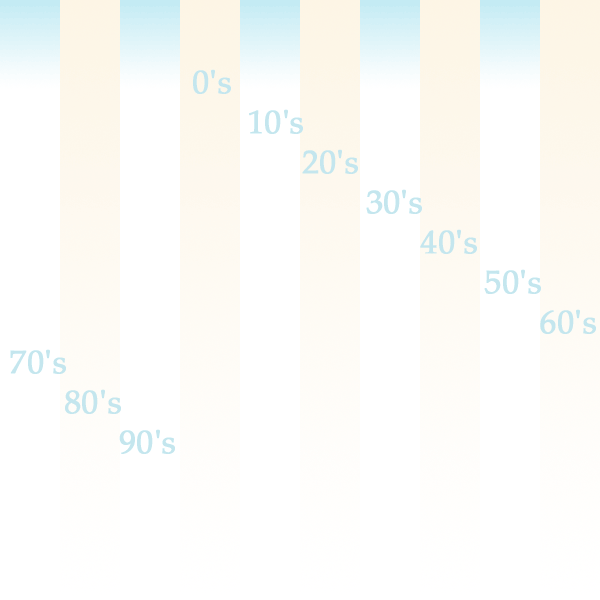
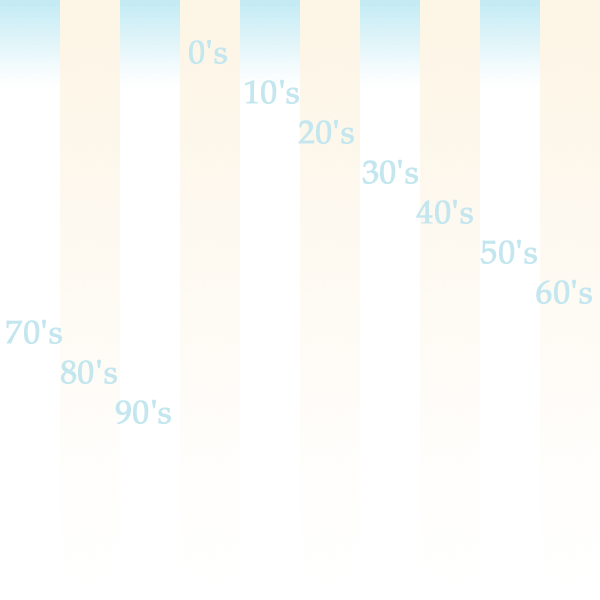
Now Centers on timeline instead of 1970 on startup. Fixed Labels. They were close, but no cigar. Need to be savier about leap years, etc. WheelScroll listeners on both islands & timeline objs.
git-svn-id: file:///a/svnrepos/hippo/code/trunk/HippoTest@365 b8d5060c-ad15-0410-9d10-96fc93d4f2a4

Changed region(s): [[0.3, 0.06, 1.0, 0.57], [0.0, 0.51, 0.3, 0.78]]

diff --git a/src/main/java/com/aavu/client/gui/timeline/zoomer/ProteanLabel.java b/src/main/java/com/aavu/client/gui/timeline/zoomer/ProteanLabel.java
@@ -8,8 +8,6 @@ import com.google.gwt.i18n.client.DateTimeFormat;
 
 public class ProteanLabel extends LabelWrapper {
 	
-	//PENG MED unfortunate probably screw labels up a bit at the hour scale
-	private static final long SMIDGE_MIN = 600; // bump DEC 31 11:59 to Jan 1 etc
 	private int idx;
 
 	public ProteanLabel(int idx, int top){
@@ -25,25 +23,65 @@ public class ProteanLabel extends LabelWrapper {
 	/**
 	 * tell this label that there is a new center. We should update ouselves.
 	 * Our idx tells us how many 'units' away from the center we should be. 
-	 * 'units' will be equal to 1/higherScale (1 level more detailed than the zoom scale)
+	 * 
+	 * NOTE, first attempt did 1/higherScale * idx, which seems like it should work 
+	 * until you remember leap years cumulative effects of months with different dates etc.
+	 * Doing it that way it's too easy to end up with Dec 29 when you wanted Jan 1
 	 * 
 	 * @param d2
 	 * @param currentScale
 	 * @param index
 	 * @param format
 	 */
-	public void setCenter(final Date d2, final double higherScale,final int index,final DateTimeFormat format) {
-		
-		long mod = d2.getTime() % TimeLineObj.scale((long) (1/higherScale));
-		long modded = d2.getTime() - mod;
-		if(index > 1){			
-			System.out.println("smidge "+new Date(TimeLineObj.scale(SMIDGE_MIN))+" mod "+mod+" modD "+new Date(mod));
-			modded += TimeLineObj.scale(SMIDGE_MIN);
-		}		
-		
-		Date newD = new Date(modded + TimeLineObj.scale((long) (idx/higherScale)));
+	public void setCenter(final Date d2, final int index,final DateTimeFormat format) {
 				
-		System.out.println(idx+"d2 "+d2+" "+(idx/higherScale)+" "+newD+" "+TimeLineObj.getLeftForDate(newD));
+		Date newD = new Date(d2.getTime());
+
+		switch (index) {
+		case 6:
+			newD.setYear((newD.getYear() - (newD.getYear() % 10))  + idx*10);	
+			newD.setMonth(0);
+			newD.setDate(1);
+			break;
+		case 5:
+			newD.setYear(newD.getYear() + idx);	
+			newD.setMonth(0);
+			newD.setDate(1);
+			break;
+		case 4:
+			newD.setYear(newD.getYear() + idx);
+			newD.setMonth(0);
+			newD.setDate(1);
+			break;
+		case 3:
+			newD.setMonth(newD.getMonth() + idx);
+			newD.setDate(1);
+			newD.setHours(0);
+			newD.setMinutes(0);	
+			break;
+		case 2:
+			newD.setDate(newD.getDate() + idx);
+			newD.setHours(0);
+			newD.setMinutes(0);
+			break;
+		case 1:
+			newD.setHours(newD.getHours() + idx);			
+			newD.setMinutes(0);
+			newD.setSeconds(0);
+			break;
+		case 0:
+			newD.setHours(newD.getHours() + idx);			
+			newD.setMinutes(newD.getMinutes() + idx);
+			newD.setSeconds(0);
+			break;
+		default:
+			break;
+		}
+		
+		
+		//System.out.println(index+" "+idx+"d2 "+d2+" "+newD+" "+TimeLineObj.getLeftForDate(newD));
+		
+		
 		int llleft = TimeLineObj.getLeftForDate(newD);				
 		setLeft(llleft);
 		setText(format.format(newD));

diff --git a/src/main/java/com/aavu/client/gui/timeline/zoomer/ZoomableTimeline.java b/src/main/java/com/aavu/client/gui/timeline/zoomer/ZoomableTimeline.java
@@ -53,14 +53,15 @@ public class ZoomableTimeline extends ViewPanel implements HippoTimeline {
 		
 		zoomList.add(new Double(1/MIN_MILL));
 		
-		System.out.println("\n\n\nMin Day "+MIN_DAY+" "+zoomList.get(1));
-		System.out.println("\n\n\nMin Year "+MIN_YEAR+" "+zoomList.get(4));
-		System.out.println("\n\n\nMin Decade "+MIN_DECADE+" "+zoomList.get(5));
-		
+//		System.out.println("\n\n\nMin Day "+MIN_DAY+" "+zoomList.get(1));
+//		System.out.println("\n\n\nMin Year "+MIN_YEAR+" "+zoomList.get(4));
+//		System.out.println("\n\n\nMin Decade "+MIN_DECADE+" "+zoomList.get(5));		
 	}
 
 	static{
-		backGroundList.add("minute");
+		
+		//need new image
+		backGroundList.add("hour");
 		
 		backGroundList.add("hour");
 		backGroundList.add("day");
@@ -141,8 +142,10 @@ public class ZoomableTimeline extends ViewPanel implements HippoTimeline {
 	}
 	//@Override
 	protected RemembersPosition getTLORepr(Manager manager, TimeLineObj tlo,
-			int left, int top) {		
-		return new TLOWrapper(manager,tlo,left,top);
+			int left, int top) {
+		TLOWrapper tlow = new TLOWrapper(manager,tlo,left,top);
+		tlow.addMouseWheelListener(this);
+		return tlow;
 	}
 	public Widget getWidget() {
 		return this;
@@ -182,12 +185,13 @@ public class ZoomableTimeline extends ViewPanel implements HippoTimeline {
 			addObject(ll);
 		}
 		
-//		TimeLineObj last = (TimeLineObj) timelines.get(timelines.size()-1);
-//		System.out.println("last "+last);
-//		if(last != null){
-//			System.out.println("move to "+last.getLeft());
-//			moveTo(-last.getLeft(), 0);
-//		}
+		TimeLineObj last = (TimeLineObj) timelines.get(timelines.size()-1);
+		System.out.println("last "+last);
+		if(last != null){
+			
+			System.out.println("move to "+last.getLeft()+" "+TimeLineObj.getDateForLeft(last.getLeft()));
+			centerOn(last.getLeft(), 0);			
+		}
 		
 		updateLabels();
 		redraw();
@@ -225,13 +229,12 @@ public class ZoomableTimeline extends ViewPanel implements HippoTimeline {
 		
 		whenlabel.setText(((DateTimeFormat)labelFormatters.get(3)).format(d2));
 		
-		double higherScale = ((Double)zoomList.get(index - 1)).doubleValue();
-		System.out.println("curback "+-getCurbackX()+" "+"      "+d2+" ii "+ii+" "+higherScale+" "+backGroundList.get(index));
+		//System.out.println("curback "+-getCurbackX()+" "+"      "+d2+" ii "+ii+" "+backGroundList.get(index));
 		
 		DateTimeFormat format = (DateTimeFormat) labelFormatters.get(index);
 		for (Iterator iterator = labelList.iterator(); iterator.hasNext();) {
 			ProteanLabel label = (ProteanLabel) iterator.next();
-			label.setCenter(d2,higherScale,index,format);
+			label.setCenter(d2,index,format);
 		}
 	}
 

diff --git a/src/main/java/com/aavu/client/gui/timeline/draggable/TLOWrapper.java b/src/main/java/com/aavu/client/gui/timeline/draggable/TLOWrapper.java
@@ -10,14 +10,20 @@ import com.aavu.client.gui.glossary.SimpleTopicDisplay;
 import com.aavu.client.service.Manager;
 import com.aavu.client.strings.ConstHolder;
 import com.google.gwt.i18n.client.DateTimeFormat;
+import com.google.gwt.user.client.DOM;
+import com.google.gwt.user.client.Event;
 import com.google.gwt.user.client.ui.ClickListener;
 import com.google.gwt.user.client.ui.Composite;
 import com.google.gwt.user.client.ui.HorizontalPanel;
+import com.google.gwt.user.client.ui.Image;
 import com.google.gwt.user.client.ui.Label;
+import com.google.gwt.user.client.ui.MouseWheelListener;
+import com.google.gwt.user.client.ui.MouseWheelListenerCollection;
+import com.google.gwt.user.client.ui.SourcesMouseWheelEvents;
 import com.google.gwt.user.client.ui.Widget;
 
 
-public class TLOWrapper extends Composite implements RemembersPosition {
+public class TLOWrapper extends Composite implements RemembersPosition, SourcesMouseWheelEvents {
 	
 	private DateTimeFormat format = DateTimeFormat.getFormat("MMM, d yyyy");
 	private class PreviewPopup extends PopupWindow {
@@ -36,6 +42,8 @@ public class TLOWrapper extends Composite implements RemembersPosition {
 	private int left;
 	private TimeLineObj tlo;
 	private int top;
+	private Label label;
+	private Image image;	
 
 	public TLOWrapper(final Manager manager, final TimeLineObj tlo,int left, int top){
 		this.tlo = tlo;
@@ -44,9 +52,10 @@ public class TLOWrapper extends Composite implements RemembersPosition {
 
 		HorizontalPanel panel = new HorizontalPanel();
 
-		Label label = new Label(tlo.getTopic().getTopicTitle());
+		label = new Label(tlo.getTopic().getTopicTitle());
 
-		panel.add(ConstHolder.images.bullet_blue().createImage());
+		image = ConstHolder.images.bullet_blue().createImage();
+		panel.add(image);
 		panel.add(label);
 
 		label.addClickListener(new ClickListener(){
@@ -65,7 +74,7 @@ public class TLOWrapper extends Composite implements RemembersPosition {
 
 		label.addMouseListener(new TooltipListener(format.format(tlo.getStart())));
 		
-		initWidget(panel);
+		initWidget(panel);		
 	}
 
 	public int getLeft() {
@@ -80,4 +89,15 @@ public class TLOWrapper extends Composite implements RemembersPosition {
 
 		return this;
 	}
+
+	public void addMouseWheelListener(MouseWheelListener listener) {
+		label.addMouseWheelListener(listener);
+		image.addMouseWheelListener(listener);
+	}
+
+	public void removeMouseWheelListener(MouseWheelListener listener) {
+		image.removeMouseWheelListener(listener);
+		label.removeMouseWheelListener(listener);
+	}
+	
 }

diff --git a/src/main/java/com/aavu/client/gui/dhtmlIslands/Island.java b/src/main/java/com/aavu/client/gui/dhtmlIslands/Island.java
@@ -22,6 +22,8 @@ import com.google.gwt.user.client.ui.KeyboardListener;
 import com.google.gwt.user.client.ui.KeyboardListenerCollection;
 import com.google.gwt.user.client.ui.MouseListener;
 import com.google.gwt.user.client.ui.MouseListenerCollection;
+import com.google.gwt.user.client.ui.MouseWheelListener;
+import com.google.gwt.user.client.ui.MouseWheelListenerCollection;
 import com.google.gwt.user.client.ui.SourcesKeyboardEvents;
 import com.google.gwt.user.client.ui.SourcesMouseEvents;
 import com.google.gwt.user.client.ui.Widget;
@@ -62,7 +64,7 @@ public class Island extends AbstractIsland implements ClickListener, SourcesMous
 
 	private DraggableTopicLabel selectedTopic;
 
-
+	private MouseWheelListenerCollection mouseWheelListeners;
 	private KeyboardListenerCollection keyboardListeners;
 	
 	public Island(TagInfo stat, OceanDHTMLImpl ocean, User user,Manager manager) {
@@ -71,7 +73,7 @@ public class Island extends AbstractIsland implements ClickListener, SourcesMous
 		this.ocean = ocean;
 		this.manager = manager;
 		
-		sinkEvents(Event.ONCLICK | Event.MOUSEEVENTS | Event.ONDBLCLICK | Event.KEYEVENTS);	    
+		sinkEvents(Event.ONCLICK | Event.MOUSEEVENTS | Event.ONDBLCLICK | Event.KEYEVENTS | Event.ONMOUSEWHEEL);	    
 			
 		
 		setStyleName("H-Island");
@@ -290,7 +292,11 @@ public class Island extends AbstractIsland implements ClickListener, SourcesMous
 			onClick(this);
 			break;
 		}
-
+		case Event.ONMOUSEWHEEL:
+			if (mouseWheelListeners != null) {
+				mouseWheelListeners.fireMouseWheelEvent(this, event);
+			}
+			break;
 
 		case Event.ONMOUSEUP:
 			wasMouseUp = true;	    	
@@ -676,5 +682,16 @@ public class Island extends AbstractIsland implements ClickListener, SourcesMous
 		if (mouseListeners != null)
 			mouseListeners.remove(listener);
 	}
-	
+	public void addMouseWheelListener(MouseWheelListener listener) {
+		if(mouseWheelListeners == null){
+			mouseWheelListeners = new MouseWheelListenerCollection();
+		}
+		mouseWheelListeners.add(listener);
+	}
+
+	public void removeMouseWheelListener(MouseWheelListener listener) {
+		if(mouseWheelListeners != null){
+			mouseWheelListeners.remove(listener);
+		}
+	}
 }

diff --git a/src/main/java/com/aavu/client/domain/dto/TimeLineObj.java b/src/main/java/com/aavu/client/domain/dto/TimeLineObj.java
@@ -2,22 +2,12 @@ package com.aavu.client.domain.dto;
 
 import java.util.Date;
 
-import org.gwtwidgets.client.util.SimpleDateFormat;
-
 import com.aavu.client.gui.timeline.HasDate;
-import com.google.gwt.i18n.client.DateTimeFormat;
-import com.google.gwt.json.client.JSONObject;
-import com.google.gwt.json.client.JSONString;
-import com.google.gwt.json.client.JSONValue;
 import com.google.gwt.user.client.rpc.IsSerializable;
 
 public class TimeLineObj implements IsSerializable, HasDate {
 	
-	private transient static final DateTimeFormat sdf = DateTimeFormat.getFormat("yyyy-MM-dd");
 	
-	public static String getDateInJSON(Date date) {
-		return sdf.format(date);
-	}
 	private TopicIdentifier topic;
 		
 	private Date start;
@@ -35,6 +25,10 @@ public class TimeLineObj implements IsSerializable, HasDate {
 		return end;
 	}
 	/*
+	 * WARN!!!!!!!!! 
+	 * DO not use this code, since it will include JSON package which is not available on 
+	 * the server
+	 * 
 	 * 		{
 	 *		'dateTimeFormat': 'iso8601',
 	 *		'events' : [
@@ -46,16 +40,16 @@ public class TimeLineObj implements IsSerializable, HasDate {
 	 *		        },
 	 *
 	 */
-	public JSONValue getJSONObj() {
-		JSONObject jo = new JSONObject();
-
-		jo.put("start", new JSONString(getDateInJSON(getStart())));
-		jo.put("title", new JSONString(topic.getTopicTitle()));
-		jo.put("description", new JSONString(getTopic().getTopicID()+""));
-		jo.put("link", new JSONString("HippoTest.html#"+getTopic().getTopicID()));
-
-		return jo;
-	}
+//	public JSONValue getJSONObj() {
+//		JSONObject jo = new JSONObject();
+//
+//		jo.put("start", new JSONString(getDateInJSON(getStart())));
+//		jo.put("title", new JSONString(topic.getTopicTitle()));
+//		jo.put("description", new JSONString(getTopic().getTopicID()+""));
+//		jo.put("link", new JSONString("HippoTest.html#"+getTopic().getTopicID()));
+//
+//		return jo;
+//	}
 	public Date getStart() {
 		return start;
 	}

diff --git a/src/main/java/com/aavu/client/gui/dhtmlIslands/OceanDHTMLImpl.java b/src/main/java/com/aavu/client/gui/dhtmlIslands/OceanDHTMLImpl.java
@@ -190,11 +190,14 @@ public class OceanDHTMLImpl extends ViewPanel implements Ocean,  DragFinishedLis
 	private void addIsland(TagInfo info,Island isle){			
 
 
+		
 		dragHandler.add(isle,this);
 
 		//isle.addMouseListener(this);
 		isle.addKeyboardListener(oceanKeyboardListener);
 
+		isle.addMouseWheelListener(this);
+		
 		//dragHandler.add(isle,isle,banner);				
 		//add(banner,isle.getLeft(),isle.getTop());
 

diff --git a/src/main/java/com/aavu/client/gui/ViewPanel.java b/src/main/java/com/aavu/client/gui/ViewPanel.java
@@ -87,7 +87,7 @@ public abstract class ViewPanel extends AbsolutePanel implements MouseListener, 
 		int halfWidth = width/2;
 		int halfHeight = height/2;
 
-		int left = (int) (x * currentScale) - halfWidth;
+		int left = (int) (x * currentScale*getXSpread()) - halfWidth;
 		int top = (int) (y * currentScale) - halfHeight;
 
 //		SYSTEM.OUT.PRINTLN("P.X "+P.X+" HW "+HALFWIDTH+" "+LEFT);
